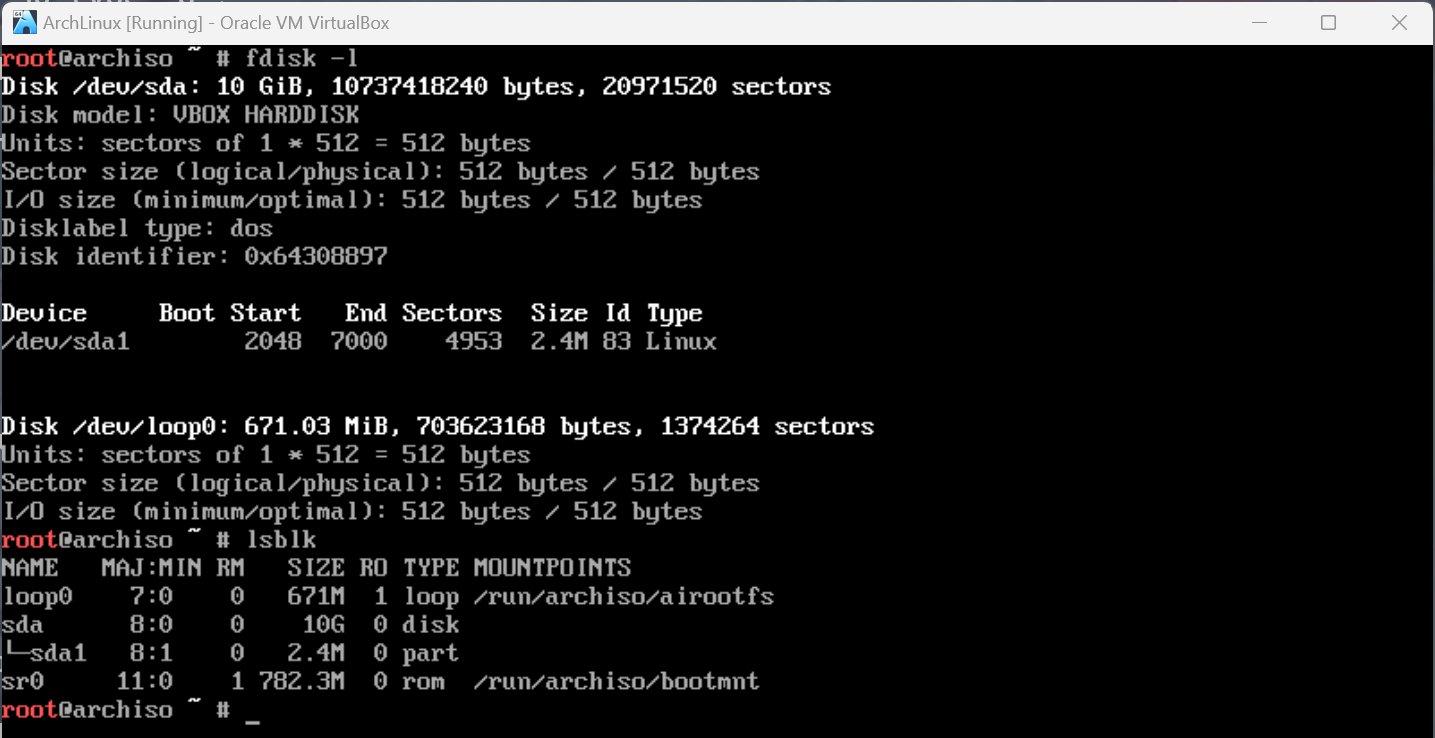
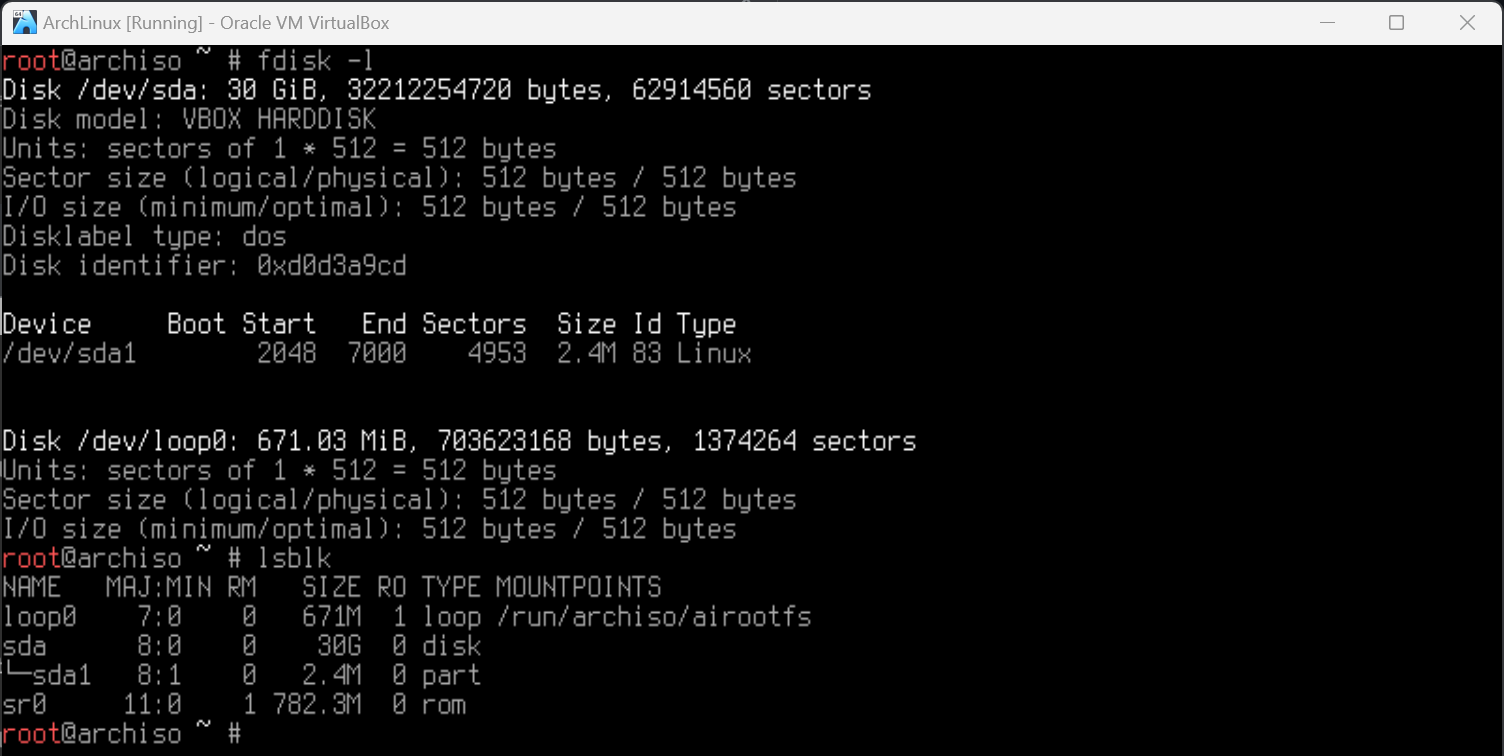
changed screenshot images and added the installation section, not complete

diff --git a/README.md b/README.md
@@ -11,6 +11,7 @@ Table of Contents
 - [Partitioning the Disks](#partitioning-the-disks)
 - [Partition Formatting](#partition-formatting)
 - [Mounting the File System](#mounting-the-file-system)
+- [Select the Installation Mirrors](#select-the-installation-mirrors)
 
 ## Pre-Requirements
 
@@ -171,7 +172,7 @@ Section 1.5 of the ArchLinux Installation Guide.
 
 - **Note:** I will be using the Ext4 file system command.
 
-![ext file system format](image/ss12.png)
+![ext file system format](images/ss12.png)
 
 ## Mounting the File System
 
@@ -190,6 +191,54 @@ Section 1.5 of the ArchLinux Installation Guide.
 - Note: `/mnt` has been added as the `MOUNTPOINTS` for `/dev/sda1`
 
 ![mount point check](images/ss13.png)
+
+## Select the Installation Mirrors
+
+- **Important Note:** The packages that will be installed is defined in `/etc/pacman.d/mirrorlist`. This file will later be copied so you should verify that the file is correct.
+
+1. To edit the file, use the command `vim /etc/pacman.d/mirrorlist`. The contents of the file should look similar to the image below.
+
+![mirrorlist](images/ss14.png)
+
+- Note: The top of the package list has a higher priority, so if you wish to have one of the packages with a higher download priority, place it at the top of the list.
+
+## Installing the Essential Packages
+
+1. Install the base package by using the command: `pacstrap -K /mnt base linux linux-firmware`
+
+- Note: The base package does not include all tools from the live installation. You may want to consider the following packages:
+
+  - userspace utilities: management of the file systems
+  - other utilities: accessing RAID or LVM partitions
+  - specific firmware for other devices that is not included in the linux-firmware already being installed
+  - networking softwares
+  - text editor
+
+- Note: To view the list of packages available, visit this [Link](https://archlinux.org/packages/?name=man-pages)
+
+2. Since I will be installing the vim editor, I will also add it to the list of packages to be installed.
+
+- Command: `pacstrap -K /mnt base linux linux-firmware vim`
+
+The download should begin and the download progress should be similar to the image below.
+
+![pacstrap command](images/ss15.png)
+
+**Trouble Shooting**
+
+If you get the error message, `failed to synchronize all databases` try running the following commands in order:
+
+	```
+	pacman -Syu
+	```
+
+When successful, the output should look similar to the image below.
+
+
+
+
+
+
 
 
 
